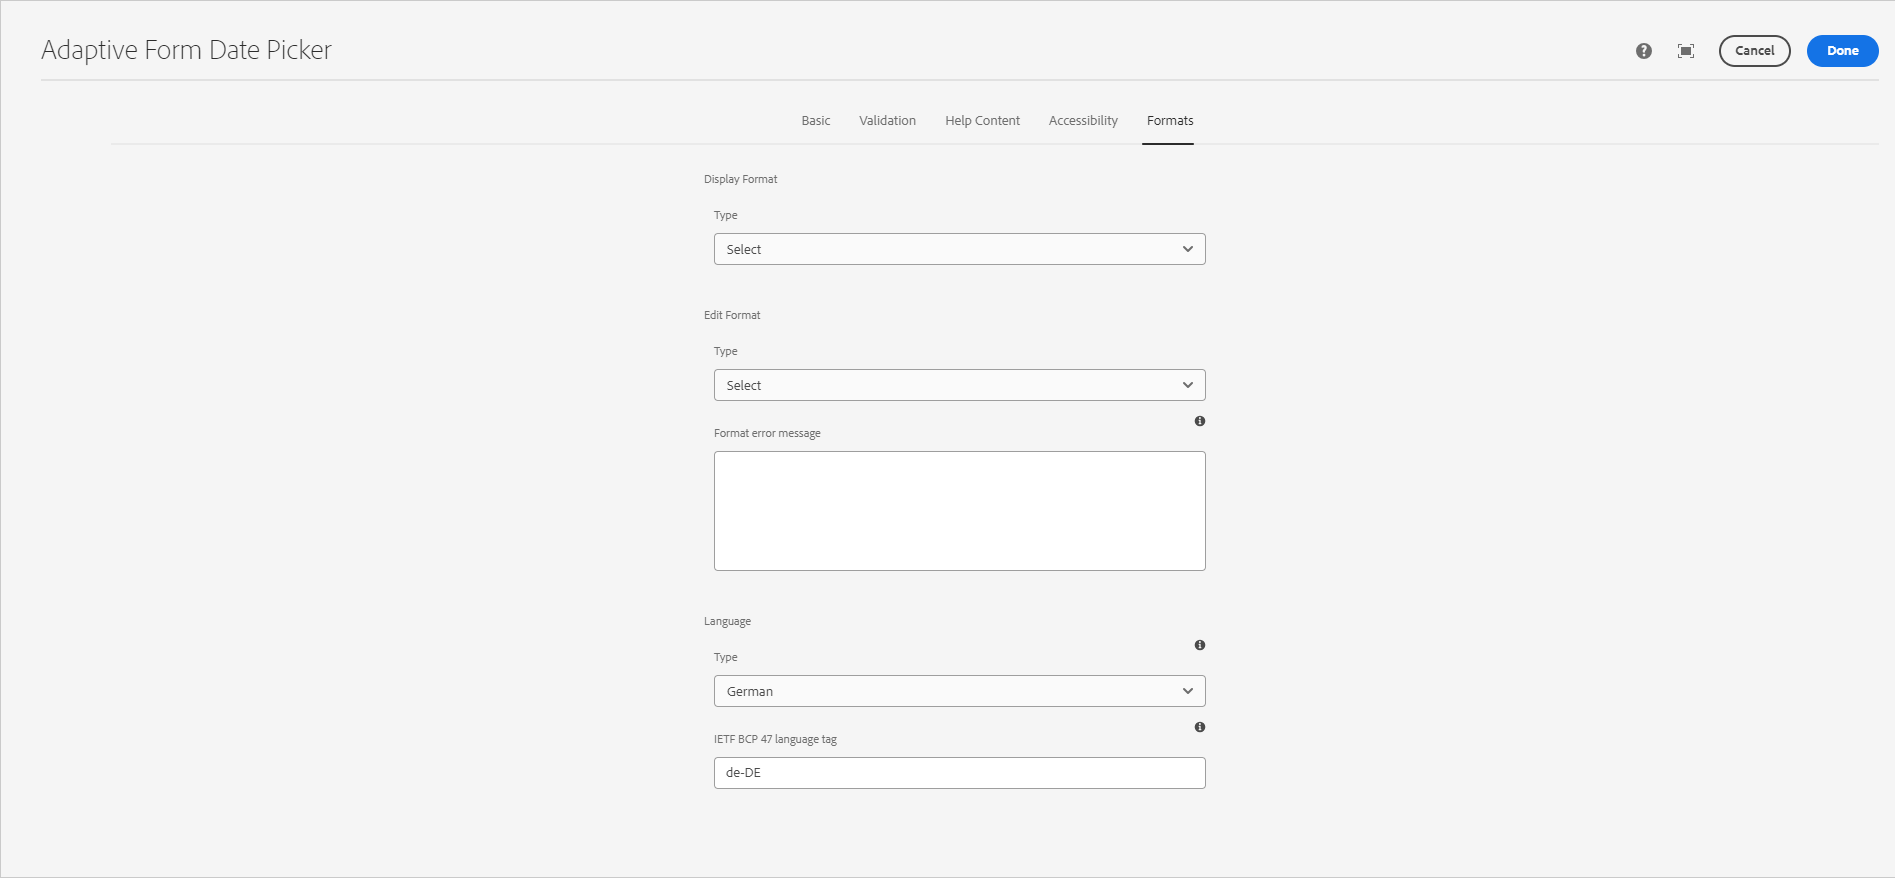
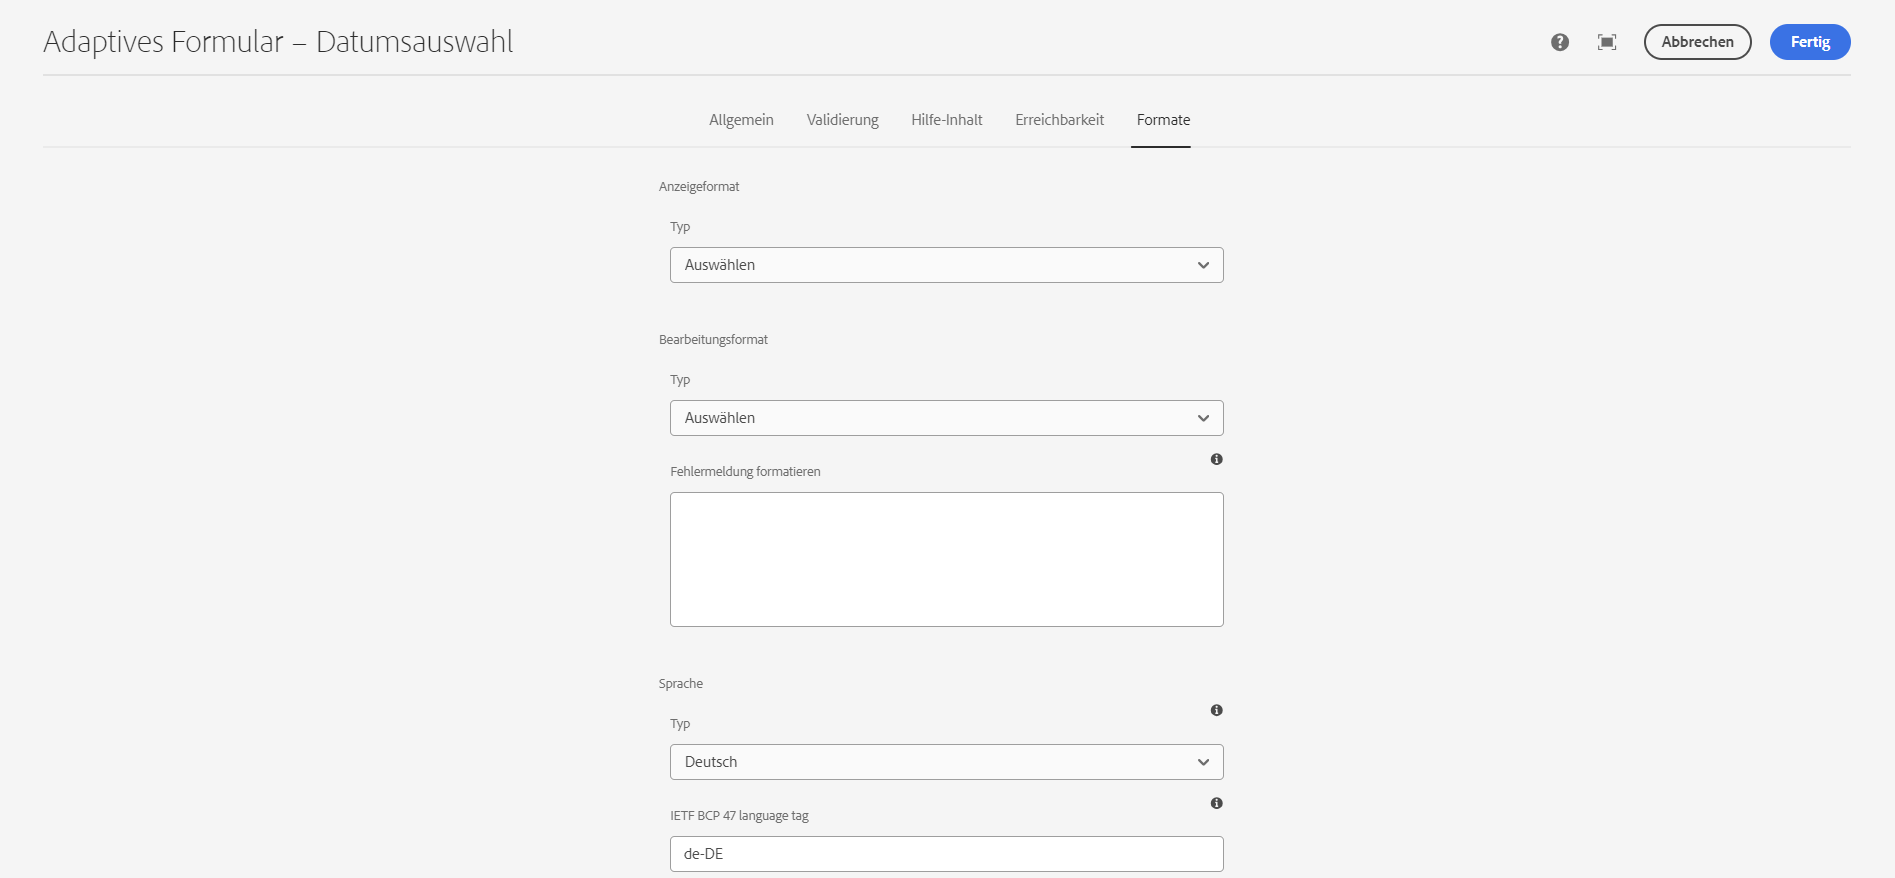
Updated by task 'AUTO_HANDOFF_1717677468194'  Changes for core/source commit https://git.corp.adobe.com/AdobeDocs/experience-manager-core-components.en/commit/b6ceef13539e7d2b3322df5a0b6369d114ae15b9

diff --git a/help/adaptive-forms/components/numeric-box.md b/help/adaptive-forms/components/numeric-box.md
@@ -4,15 +4,15 @@ description: Verwenden oder Anpassen der Kernkomponente „Zahleneingabe“ für
 role: Architect, Developer, Admin, User
 exl-id: 75604ecf-1ec5-4e97-b934-d6ed49726147
 source-git-commit: b4a66a407e92398a98441c65ab588b9720777dfa
-workflow-type: tm+mt
+workflow-type: ht
 source-wordcount: '2283'
-ht-degree: 93%
+ht-degree: 100%
 
 ---
 
 # Komponente „Numerisches Feld“{#number-input-adaptive-forms-core-component}
 
-Eine Komponente &quot;Numerisches Feld&quot;in einem adaptiven Formular ist ein Formularfeldtyp, mit dem Benutzer numerische Werte eingeben können. In der Regel wird die Komponente durch ein Textfeld mit einem Aufwärts- und Abwärtspfeil zum Erhöhen und Verringern der Zahl dargestellt.
+Mit der Komponente „Numerisches Feld“ für adaptive Formulare wird Benutzenden ein Formularfeld zur Eingabe numerischer Werte bereitgestellt. In der Regel wird die Komponente durch ein Textfeld mit einem Aufwärts- und Abwärtspfeil zum Erhöhen und Verringern der Zahl dargestellt.
 
 Auch Attribute wie „Min.“, „Max.“ „Schritt“ und „Wert“ können damit verwendet werden. Sie können mit diesen Attributen die im Feld zulässigen Mindest- und Höchstwerte, das Schrittintervall zum Erhöhen oder Verringern der Zahl und den Standardwert des Felds festlegen.
 
@@ -127,12 +127,12 @@ Sie können im Dialogfeld „Konfigurieren“ die Zahleneingabe für Besuchende 
 ![Registerkarte „Barrierefreiheit“](/help/adaptive-forms/assets/numberinput_formattab.png)
 
 - **Anzeigeformat**: Sie können mit dieser Option aus verschiedenen numerischen ganzzahligen Formaten für die Anzeige auswählen. Wenn Benutzende aus dem Dropdown-Menü **Typ** eine Option auswählen, erscheint im Bedienfeld die Option **Format**. Sie können das Format auswählen, in dem die Zahlen den Benutzenden angezeigt werden sollen.
-- **Sprache** - Diese Funktion wird zur Formatierung des spezifischen Felds verwendet. Wenn ein Benutzer eine Sprachoption aus der **Typ** Dropdown-Menü, die **IETF BCP 47-Sprach-Tag** im Bereich angezeigt. Sie können die Sprache für die Feldformatierung auswählen, wenn Sie ein adaptives Formular in eine bestimmte Sprache übersetzen.
+- **Sprache**: Diese Funktion wird zur Formatierung des spezifischen Felds verwendet. Wenn eine Benutzerin bzw. ein Benutzer eine Sprachoption aus dem Dropdown-Menü **Typ** auswählt, erscheint die Option **IETF BCP 47-Sprach-Tag** im Panel. Sie können die Sprache für die Feldformatierung wählen, wenn Sie ein adaptives Formular in eine bestimmte Sprache übersetzen.
 
-Der Sprachensatz ist standardmäßig nicht sichtbar, aber Benutzer können eine benutzerdefinierte **IETF BCP 47-Sprach-Tag** durch Aktualisierung der Vorlagenrichtlinie:
+Die Sprachauswahl ist standardmäßig nicht sichtbar, aber Benutzende können ein benutzerdefiniertes **IETF BCP 47-Sprach-Tag** eingeben, indem sie die Vorlagenrichtlinie aktualisieren:
 
-1. Öffnen Sie die entsprechende Vorlage, die mit einem adaptiven Formular verknüpft ist, im Vorlageneditor.
-2. Wählen Sie die vorhandene Richtlinie als `numberinput-default-policy` aus dem Dropdown-Menü.
+1. Öffnen Sie im Vorlageneditor die entsprechende Vorlage, die mit einem adaptiven Formular verknüpft ist.
+2. Wählen Sie die bestehende Richtlinie als `numberinput-default-policy` aus dem Dropdown-Menü.
 
    ![Richtlinie für Datumsauswahl-Vorlagen](/help/adaptive-forms/assets/numberinput-template-policy.png)
 
@@ -140,7 +140,7 @@ Der Sprachensatz ist standardmäßig nicht sichtbar, aber Benutzer können eine 
 
    >[!NOTE]
    >
-   > Weitere Informationen zur Übersetzung eines adaptiven Formulars in ein bestimmtes Gebietsschema finden Sie unter [Klicken Sie hier](https://experienceleague.adobe.com/en/docs/experience-manager-cloud-service/content/forms/adaptive-forms-authoring/authoring-adaptive-forms-core-components/create-an-adaptive-form-on-forms-cs/supporting-new-language-localization-core-components).
+   > Weitere Informationen zur Übersetzung eines adaptiven Formulars in ein bestimmtes Gebietsschema finden Sie [hier](https://experienceleague.adobe.com/de/docs/experience-manager-cloud-service/content/forms/adaptive-forms-authoring/authoring-adaptive-forms-core-components/create-an-adaptive-form-on-forms-cs/supporting-new-language-localization-core-components).
 
 
 ## Dialogfeld „Design“ {#design-dialog}

diff --git a/help/adaptive-forms/components/date-picker.md b/help/adaptive-forms/components/date-picker.md
@@ -4,9 +4,9 @@ description: Verwenden oder Anpassen der Datumsauswahl-Kernkomponente in adaptiv
 role: Architect, Developer, Admin, User
 exl-id: aa9402de-ca57-4c19-8d36-2dd0a78d6806
 source-git-commit: b4a66a407e92398a98441c65ab588b9720777dfa
-workflow-type: tm+mt
+workflow-type: ht
 source-wordcount: '2299'
-ht-degree: 93%
+ht-degree: 100%
 
 ---
 
@@ -131,13 +131,13 @@ Sie können die Datumsauswahl im Dialogfeld „Konfigurieren“ einfach anpassen
 - **Anzeigeformat** – Stellt das Format dar, in dem das Datum angezeigt wird. Die Option **Typ** ermöglicht die Auswahl des Datumsformats. Sie können das Datumsformat auch mithilfe der Option **Benutzerdefiniert** im Dropdown-Menü **Typ** anpassen.
 
 - **Format bearbeiten** – Stellt ein Datumsformat dar, in dem das Datum bearbeitet werden kann. Die Option **Typ** ermöglicht die Auswahl des Datumsformats. Sie können das Datumsformat auch mithilfe der Option **Benutzerdefiniert** im Dropdown-Menü **Typ** anpassen.
-- **Fehlermeldung formatieren** - Mit dieser Option können Sie die auf dem Bildschirm angezeigte Nachricht eingeben, wenn das eingegebene Datum nicht das richtige Format aufweist.
-- **Sprache** - Diese Funktion wird zur Formatierung des spezifischen Felds verwendet. Wenn ein Benutzer eine Sprachoption aus der **Typ** Dropdown-Menü, die **IETF BCP 47-Sprach-Tag** im Bereich angezeigt. Sie können die Sprache für die Feldformatierung auswählen, wenn Sie ein adaptives Formular in eine bestimmte Sprache übersetzen.
+- **Fehlermeldung formatieren**: Mit dieser Option können Sie die auf dem Bildschirm angezeigte Nachricht eingeben, wenn das eingegebene Datum nicht das richtige Format aufweist.
+- **Sprache**: Diese Funktion wird zur Formatierung des spezifischen Felds verwendet. Wenn eine Benutzerin bzw. ein Benutzer eine Sprachoption aus dem Dropdown-Menü **Typ** auswählt, erscheint die Option **IETF BCP 47-Sprach-Tag** im Panel. Sie können die Sprache für die Feldformatierung wählen, wenn Sie ein adaptives Formular in eine bestimmte Sprache übersetzen.
 
-Der Sprachensatz ist standardmäßig nicht sichtbar, aber Benutzer können eine benutzerdefinierte **IETF BCP 47-Sprach-Tag** durch Aktualisierung der Vorlagenrichtlinie:
+Die Sprachauswahl ist standardmäßig nicht sichtbar, aber Benutzende können ein benutzerdefiniertes **IETF BCP 47-Sprach-Tag** eingeben, indem sie die Vorlagenrichtlinie aktualisieren:
 
-1. Öffnen Sie die entsprechende Vorlage, die mit einem adaptiven Formular verknüpft ist, im Vorlageneditor.
-2. Wählen Sie die vorhandene Richtlinie als `datepicker-default-policy` aus dem Dropdown-Menü.
+1. Öffnen Sie im Vorlageneditor die entsprechende Vorlage, die mit einem adaptiven Formular verknüpft ist.
+2. Wählen Sie die bestehende Richtlinie als `datepicker-default-policy` aus dem Dropdown-Menü.
 
    ![Richtlinie für Datumsauswahl-Vorlagen](/help/adaptive-forms/assets/date-picker-template-policy.png)
 
@@ -145,7 +145,7 @@ Der Sprachensatz ist standardmäßig nicht sichtbar, aber Benutzer können eine 
 
    >[!NOTE]
    >
-   > Weitere Informationen zur Übersetzung eines adaptiven Formulars in ein bestimmtes Gebietsschema finden Sie unter [Klicken Sie hier](https://experienceleague.adobe.com/en/docs/experience-manager-cloud-service/content/forms/adaptive-forms-authoring/authoring-adaptive-forms-core-components/create-an-adaptive-form-on-forms-cs/supporting-new-language-localization-core-components).
+   > Weitere Informationen zur Übersetzung eines adaptiven Formulars in ein bestimmtes Gebietsschema finden Sie [hier](https://experienceleague.adobe.com/de/docs/experience-manager-cloud-service/content/forms/adaptive-forms-authoring/authoring-adaptive-forms-core-components/create-an-adaptive-form-on-forms-cs/supporting-new-language-localization-core-components).
 
 ## Dialogfeld „Design“ {#design-dialog}
 

diff --git a/help/adaptive-forms/components/phone.md b/help/adaptive-forms/components/phone.md
@@ -4,16 +4,16 @@ description: Verwenden oder Anpassen der Kernkomponente „Telefoneingabe“ fü
 role: Architect, Developer, Admin, User
 exl-id: d06179ac-04bd-4af4-b6ac-c4c78086058c
 source-git-commit: b4a66a407e92398a98441c65ab588b9720777dfa
-workflow-type: tm+mt
+workflow-type: ht
 source-wordcount: '2197'
-ht-degree: 99%
+ht-degree: 100%
 
 ---
 
 
 # Telefon-Komponente{#telephone-input-adaptive-forms-core-component}
 
-Mit der Kernkomponente &quot;Mobiltelefon-Formular&quot;für adaptive Formulare können Benutzer eine Telefonnummer eingeben. Im Telefoneingabefeld werden Tastaturen von Mobilgeräten angezeigt, die für Telefonnummern relevant sind. Zur Spezifikation des Formats und der Beschreibung der Telefonnummer können zusätzliche Attribute wie „Muster“ und „Platzhalter“ verwendet werden.
+Mit der Kernkomponente „Telefon“ für adaptive Formulare können Benutzende eine Telefonnummer eingeben. Im Telefoneingabefeld werden Tastaturen von Mobilgeräten angezeigt, die für Telefonnummern relevant sind. Zur Spezifikation des Formats und der Beschreibung der Telefonnummer können zusätzliche Attribute wie „Muster“ und „Platzhalter“ verwendet werden.
 
 Das Telefoneingabefeld wird häufig in Kontakt-, Registrierungs- und anderen Formularen verwendet, bei denen unter den Kontaktdaten auch eine Telefonnummer angegeben werden muss. Das Telefoneingabefeld kann auch verwendet werden, um sicherzustellen, dass die Benutzenden eine gültige Telefonnummer eingeben, da der Browser bestimmte Einschränkungen vorgeben kann, z. B. die Länge und das Format der Telefonnummer entsprechend dem Attribut „Muster“.
 
